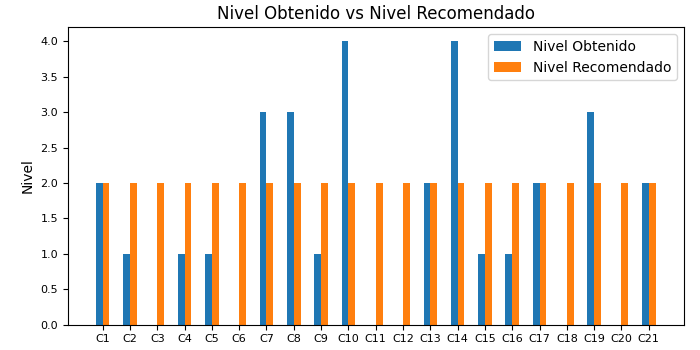
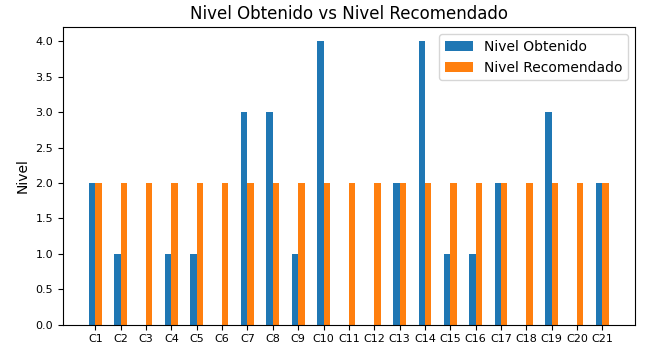
actualizacion desde base de datos

diff --git a/proyTesis/static/weasyprint/report.css b/proyTesis/static/weasyprint/report.css
@@ -28,14 +28,14 @@
 }
 @page {
   @top-left {
-    background: #fbc847;
+    background: #90AFC5;
     content: counter(page);
     height: 1cm;
     text-align: center;
     width: 1cm;
   }
   @top-center {
-    background: #fbc847;
+    background: #90AFC5;
     content: "";
     display: block;
     height: 0.05cm;
@@ -80,7 +80,7 @@
   margin: 0;
 }
 @page chapter {
-  background: #fbc847;
+  background: #90AFC5;
   margin: 0;
   @top-left {
     content: none;
@@ -93,7 +93,7 @@
   }
 }
 html {
-  color: #393939;
+  color: #2A3132;
   font-family: Fira Sans;
   font-size: 11pt;
   font-weight: 300;
@@ -104,7 +104,7 @@ html body {
   width: 100%;
 }
 html body h1 {
-  color: #fbc847;
+  color: #763626;
   font-size: 38pt;
   margin: 5cm 2cm 0 2cm;
   page: no-chapter;
@@ -133,7 +133,7 @@ html body article#cover {
   height: 297mm;
 }
 html body article#cover address {
-  background: #fbc847;
+  background: #90AFC5;
   flex: 1 50%;
   margin: 0 -2cm;
   padding: 1cm 0;
@@ -157,7 +157,7 @@ html body article#contents h3 {
   margin: 3em 0 1em;
 }
 html body article#contents h3::before {
-  background: #fbc847;
+  background: #90AFC5;
   content: "";
   display: block;
   height: 0.08cm;
@@ -174,21 +174,21 @@ html body article#contents ul li {
   padding-top: 0.25cm;
 }
 html body article#contents ul li::before {
-  color: #fbc847;
+  color: #90AFC5;
   content: "• ";
   font-size: 40pt;
   line-height: 16pt;
   vertical-align: bottom;
 }
 html body article#contents ul li a {
-  color: inherit;
+  color: #2A3132;
   text-decoration: inherit;
 }
 html body article#contents ul li a::before {
   content: target-text(attr(href));
 }
 html body article#contents ul li a::after {
-  color: #fbc847;
+  color: #90AFC5;
   content: target-counter(attr(href), page);
   float: right;
 }
@@ -204,7 +204,7 @@ html body article#columns section p:first-of-type {
   font-weight: 700;
 }
 html body article#competences h3 {
-  background: #fbc847;
+  background: #90AFC5;
   margin: 0 -3cm 1cm;
   padding: 1cm 1cm 1cm 3cm;
   width: 21cm;
@@ -213,7 +213,7 @@ html body article#competences section {
   padding: 0.5cm 0;
 }
 html body article#competences section#table-content::before {
-  background: url(table-content.svg) no-repeat center #fbc847;
+  background: url(table-content.svg) no-repeat center #90AFC5;
   background-size: 50%;
   content: "";
   display: inline-block;
@@ -224,7 +224,7 @@ html body article#competences section#table-content::before {
   width: 2cm;
 }
 html body article#competences section#heading::before {
-  background: url(heading.svg) no-repeat center #fbc847;
+  background: url(heading.svg) no-repeat center #90AFC5;
   background-size: 50%;
   content: "";
   display: inline-block;
@@ -235,7 +235,7 @@ html body article#competences section#heading::before {
   width: 2cm;
 }
 html body article#competences section#multi-columns::before {
-  background: url(multi-columns.svg) no-repeat center #fbc847;
+  background: url(multi-columns.svg) no-repeat center #90AFC5;
   background-size: 50%;
   content: "";
   display: inline-block;
@@ -246,7 +246,7 @@ html body article#competences section#multi-columns::before {
   width: 2cm;
 }
 html body article#competences section#internal-links::before {
-  background: url(internal-links.svg) no-repeat center #fbc847;
+  background: url(internal-links.svg) no-repeat center #90AFC5;
   background-size: 50%;
   content: "";
   display: inline-block;
@@ -257,7 +257,7 @@ html body article#competences section#internal-links::before {
   width: 2cm;
 }
 html body article#competences section#style::before {
-  background: url(style.svg) no-repeat center #fbc847;
+  background: url(style.svg) no-repeat center #90AFC5;
   background-size: 50%;
   content: "";
   display: inline-block;
@@ -276,18 +276,20 @@ html body article#competences section p {
 }
 html body th {
   border-bottom: 0.2mm solid #a9a;
-  color: #a9a;
-  font-size: 10pt;
-  font-weight: 400;
+  color: #763626;
+  font-size: 12pt;
+  font-weight: bold;
   padding-bottom: 0.25cm;
   text-transform: uppercase;
 }
 html body td {
   padding-top: 7mm;
+  color: #2A3132;
 }
 html body td:last-of-type {
-  color: #fbc847;
+  color: #336B87 !important;
   font-weight: bold;
+  font-size: 11pt;
   text-align: right;
 }
 html body th, html body td {
@@ -322,7 +324,7 @@ html body th#offers section ul li:not(:last-of-type), html body td#offers sectio
   margin: 0.5cm 0;
 }
 html body th#offers section p, html body td#offers section p {
-  background: #fbc847;
+  background: #90AFC5;
   display: block;
   font-size: 15pt;
   font-weight: 700;

diff --git a/proyTesis/appWeb/templates/report/pdf.html b/proyTesis/appWeb/templates/report/pdf.html
@@ -6,7 +6,7 @@
     <meta charset="utf-8">
     <link href="{% static "weasyprint/report.css" %}" rel="stylesheet">
     <link rel="stylesheet" href="https://cdn.rawgit.com/theus/chart.css/v1.0.0/dist/chart.css" />
-    <title>Reporte</title>
+    <title>Reporte Comperencias digitales UTPL - {{ object.id_usr }}</title>
 </head>
 
 <body>
@@ -39,6 +39,10 @@
         {% endfor %}
         </tbody>
     </table>
+	<h2 id="competences-title">Gráfico resultados obtenidos</h2>
+    		<center>
+        		<img class="img_graph" src="../../static/graphimages/saved_figure.png">
+    		</center>	
 </article>
 <article id="competences">
     <h2 id="competences-title">Descripción de las áreas de las competencias digitales</h2>
@@ -53,7 +57,7 @@
 </article>
 
 <article id="competences">
-    <h2 id="competences-title">Descripción de las áreas de las competencias digitales</h2>
+    <h2 id="competences-title">Descripción de las competencias digitales</h2>
     <table>
         <thead>
         <th>Area</th>
@@ -73,16 +77,6 @@
 
       
 </article>
-
-<article>
-
-    <h3>Grafico Matplotlib</h3>
-    <center>
-        <img class="img_graph" src="../../static/graphimages/saved_figure.png">
-    </center>
-    
-</article>
-
 
 </body>
 </html>

diff --git a/proyTesis/appWeb/cuestionario.py b/proyTesis/appWeb/cuestionario.py
@@ -551,7 +551,7 @@ def repuestas_usuario_historico(request, **kwargs):
 
         #plt.show()
         fig.set_figheight(3.5)
-        fig.set_figwidth(7)
+        fig.set_figwidth(6.5)
         plt.savefig(settings.STATICFILES_DIRS[0] + 'graphimages/saved_figure.png')
         pdf_id = request.POST.get("submit_btn")
         return redirect('pdf_report', pk=pdf_id)
@@ -600,4 +600,4 @@ class MyModelView(DetailView):
 
 class MyModelDownloadView(WeasyTemplateResponseMixin, MyModelView):
     # suggested filename (is required for attachment/download!)
-    pdf_filename = 'reporte.pdf'
+    pdf_filename = 'Reporte Competencias digitales UTPL.pdf'

diff --git a/proyTesis/proyTesis/urls.py b/proyTesis/proyTesis/urls.py
@@ -21,10 +21,10 @@ from django.conf import settings
 from django.contrib.auth import logout
 
 urlpatterns = [
-    #path("jet/", include("jet.urls", "jet")),  # Django JET URLS
-    #path(
-    #    "jet/dashboard/", include("jet.dashboard.urls", "jet-dashboard")
-    #),  # Django JET dashboard URLS
+    path("jet/", include("jet.urls", "jet")),  # Django JET URLS
+    path(
+        "jet/dashboard/", include("jet.dashboard.urls", "jet-dashboard")
+    ),  # Django JET dashboard URLS
     path("", include("appWeb.urls")),
     path("admin/", admin.site.urls),
     path("", include("django.contrib.auth.urls")),

diff --git a/proyTesis/proyTesis/settings.py b/proyTesis/proyTesis/settings.py
@@ -55,11 +55,6 @@ INSTALLED_APPS = [
     "django.contrib.messages",
     "django.contrib.staticfiles",
     "django.contrib.auth",
-<<<<<<< HEAD
-    "django_matplotlib",
-=======
-    "appWeb",
->>>>>>> origin/master
     "image_cropping",
     "easy_thumbnails",
     "ckeditor",
